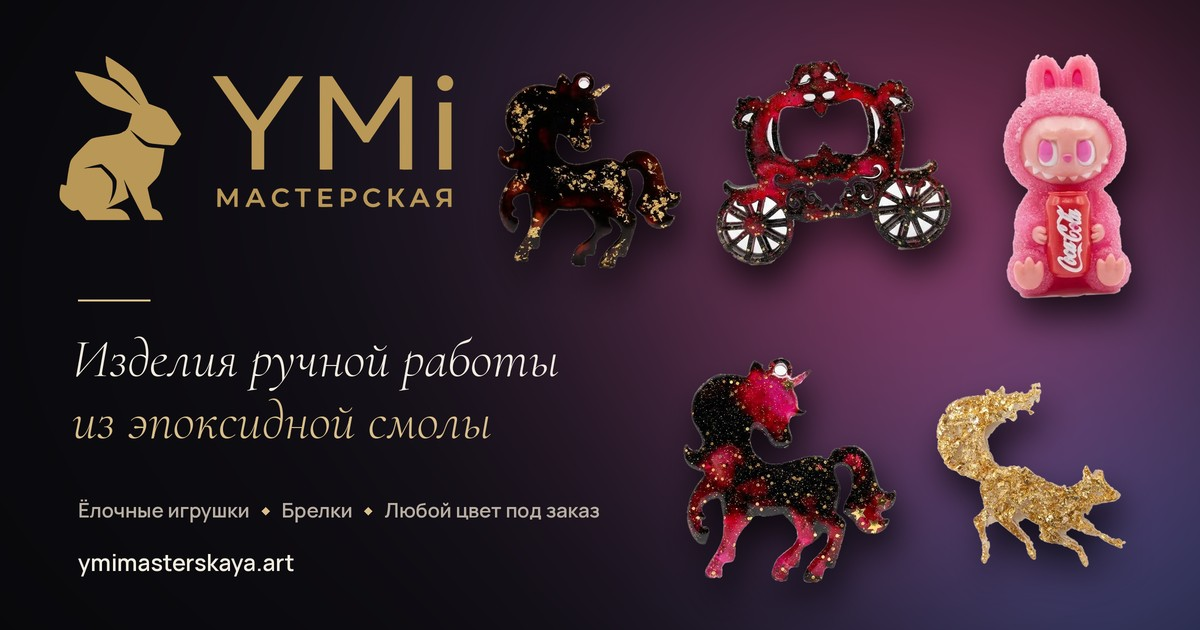
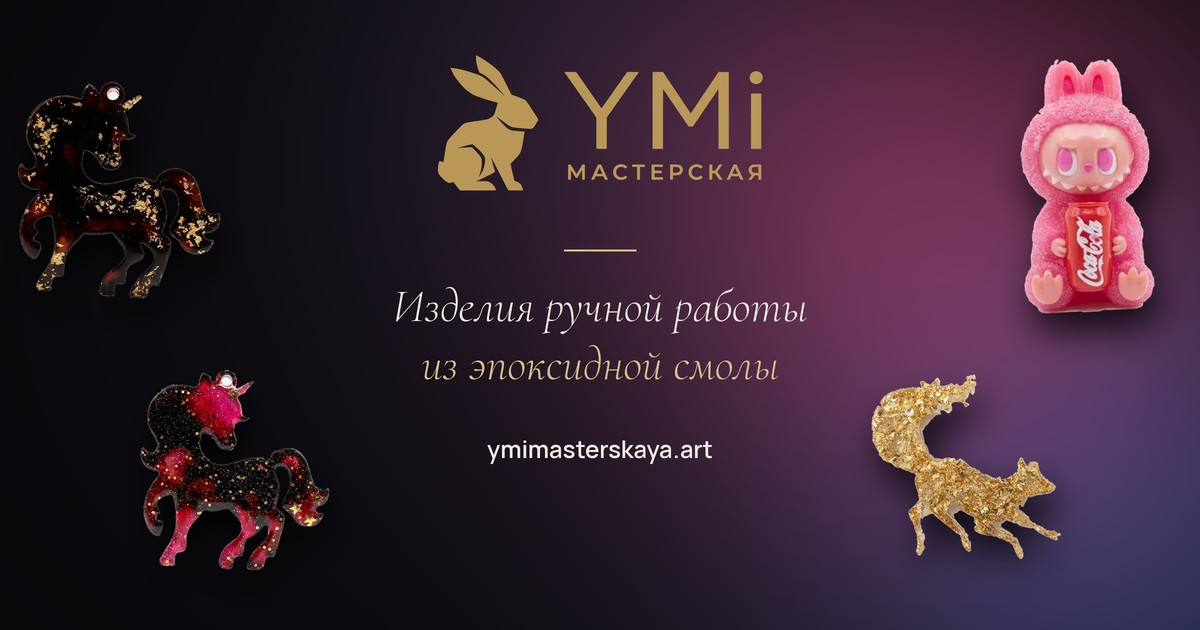
Превью для соцсетей: композиция по центру, безопасная для квадратной обрезки
Claude-Session: https://claude.ai/code/session_01SkmBLcDhrAsiXQETSAQUL7

Changed region(s): [[0.0, 0.0905, 0.8017, 0.5127], [0.0617, 0.5429, 0.9558, 0.9349], [0.8325, 0.0905, 0.9867, 0.5429]]

diff --git a/product/edinorog-fioletovyj-nektar/index.html b/product/edinorog-fioletovyj-nektar/index.html
@@ -14,6 +14,10 @@
 <meta property="og:site_name" content="Мастерская YMi"><meta property="og:title" content="Единорог «Фиолетовый нектар» — купить, ручная работа из эпоксидной смолы | Мастерская YMi">
 <meta property="og:description" content="Ёлочная игрушка-единорог из эпоксидной смолы, розово-фиолетовые разводы и голографический глиттер. Высота 8 см. Цена 490 ₽. Ручная работа, любой цвет под заказ."><meta property="og:url" content="https://ymimasterskaya.art/product/edinorog-fioletovyj-nektar/">
 <meta property="og:image" content="https://ymimasterskaya.art/img/p1-1.webp">
+<meta property="og:image:width" content="1200">
+<meta property="og:image:height" content="630">
+<meta property="og:image:alt" content="Мастерская YMi — изделия ручной работы из эпоксидной смолы">
+<meta name="twitter:image" content="https://ymimasterskaya.art/img/p1-1.webp">
 <meta name="twitter:card" content="summary_large_image">
 <link rel="preload" href="../../fonts/manrope-cyrillic-400-normal.woff2" as="font" type="font/woff2" crossorigin>
 <link rel="preload" href="../../fonts/cormorant-garamond-cyrillic-400-normal.woff2" as="font" type="font/woff2" crossorigin>

diff --git a/product/hrustalnaya-cherepashka-morskaya/index.html b/product/hrustalnaya-cherepashka-morskaya/index.html
@@ -14,6 +14,10 @@
 <meta property="og:site_name" content="Мастерская YMi"><meta property="og:title" content="Хрустальная черепашка «Морская волна» — купить, ручная работа из эпоксидной смолы | Мастерская YMi">
 <meta property="og:description" content="Брелок «Хрустальная черепашка» — оттенки морской волны и золотая поталь. Длина 4,5 см, ширина 4,3 см. Цена 550 ₽. Ручная работа, любой цвет под заказ."><meta property="og:url" content="https://ymimasterskaya.art/product/hrustalnaya-cherepashka-morskaya/">
 <meta property="og:image" content="https://ymimasterskaya.art/img/p6-1.webp">
+<meta property="og:image:width" content="1200">
+<meta property="og:image:height" content="630">
+<meta property="og:image:alt" content="Мастерская YMi — изделия ручной работы из эпоксидной смолы">
+<meta name="twitter:image" content="https://ymimasterskaya.art/img/p6-1.webp">
 <meta name="twitter:card" content="summary_large_image">
 <link rel="preload" href="../../fonts/manrope-cyrillic-400-normal.woff2" as="font" type="font/woff2" crossorigin>
 <link rel="preload" href="../../fonts/cormorant-garamond-cyrillic-400-normal.woff2" as="font" type="font/woff2" crossorigin>

diff --git a/product/hrustalnaya-cherepashka-biryuza/index.html b/product/hrustalnaya-cherepashka-biryuza/index.html
@@ -14,6 +14,10 @@
 <meta property="og:site_name" content="Мастерская YMi"><meta property="og:title" content="Хрустальная черепашка «Бирюза» — купить, ручная работа из эпоксидной смолы | Мастерская YMi">
 <meta property="og:description" content="Бирюзовая черепашка с золотой поталью — брелок или подвеска на сумку. Длина 4,5 см, ширина 4,3 см. Цена 550 ₽. Ручная работа, любой цвет под заказ."><meta property="og:url" content="https://ymimasterskaya.art/product/hrustalnaya-cherepashka-biryuza/">
 <meta property="og:image" content="https://ymimasterskaya.art/img/p15-1.webp">
+<meta property="og:image:width" content="1200">
+<meta property="og:image:height" content="630">
+<meta property="og:image:alt" content="Мастерская YMi — изделия ручной работы из эпоксидной смолы">
+<meta name="twitter:image" content="https://ymimasterskaya.art/img/p15-1.webp">
 <meta name="twitter:card" content="summary_large_image">
 <link rel="preload" href="../../fonts/manrope-cyrillic-400-normal.woff2" as="font" type="font/woff2" crossorigin>
 <link rel="preload" href="../../fonts/cormorant-garamond-cyrillic-400-normal.woff2" as="font" type="font/woff2" crossorigin>

diff --git a/product/edinorog-bordovye-zvyozdy/index.html b/product/edinorog-bordovye-zvyozdy/index.html
@@ -14,6 +14,10 @@
 <meta property="og:site_name" content="Мастерская YMi"><meta property="og:title" content="Единорог «Бордовые звёзды» — купить, ручная работа из эпоксидной смолы | Мастерская YMi">
 <meta property="og:description" content="Единорог красно-бордового цвета с блёстками, золотой пыльцой и звёздами. Высота 8 см, ширина 9 см. Цена 790 ₽. Ручная работа, любой цвет под заказ."><meta property="og:url" content="https://ymimasterskaya.art/product/edinorog-bordovye-zvyozdy/">
 <meta property="og:image" content="https://ymimasterskaya.art/img/p21-1.webp">
+<meta property="og:image:width" content="1200">
+<meta property="og:image:height" content="630">
+<meta property="og:image:alt" content="Мастерская YMi — изделия ручной работы из эпоксидной смолы">
+<meta name="twitter:image" content="https://ymimasterskaya.art/img/p21-1.webp">
 <meta name="twitter:card" content="summary_large_image">
 <link rel="preload" href="../../fonts/manrope-cyrillic-400-normal.woff2" as="font" type="font/woff2" crossorigin>
 <link rel="preload" href="../../fonts/cormorant-garamond-cyrillic-400-normal.woff2" as="font" type="font/woff2" crossorigin>

diff --git a/product/edinorog-rubinovaya-noch/index.html b/product/edinorog-rubinovaya-noch/index.html
@@ -14,6 +14,10 @@
 <meta property="og:site_name" content="Мастерская YMi"><meta property="og:title" content="Единорог «Рубиновая ночь» — купить, ручная работа из эпоксидной смолы | Мастерская YMi">
 <meta property="og:description" content="Единорог цвета ночного неба: глубокий чёрный, малиновые облака и золотые искры. Высота 8 см. Цена 790 ₽. Ручная работа, любой цвет под заказ."><meta property="og:url" content="https://ymimasterskaya.art/product/edinorog-rubinovaya-noch/">
 <meta property="og:image" content="https://ymimasterskaya.art/img/p2-1.webp">
+<meta property="og:image:width" content="1200">
+<meta property="og:image:height" content="630">
+<meta property="og:image:alt" content="Мастерская YMi — изделия ручной работы из эпоксидной смолы">
+<meta name="twitter:image" content="https://ymimasterskaya.art/img/p2-1.webp">
 <meta name="twitter:card" content="summary_large_image">
 <link rel="preload" href="../../fonts/manrope-cyrillic-400-normal.woff2" as="font" type="font/woff2" crossorigin>
 <link rel="preload" href="../../fonts/cormorant-garamond-cyrillic-400-normal.woff2" as="font" type="font/woff2" crossorigin>

diff --git a/index.html b/index.html
@@ -14,6 +14,10 @@
 <meta property="og:site_name" content="Мастерская YMi"><meta property="og:title" content="Мастерская YMi — изделия ручной работы из эпоксидной смолы | ёлочные игрушки и брелки">
 <meta property="og:description" content="Мастерская YMi: изделия ручной работы из эпоксидной смолы — ёлочные игрушки, брелки, украшения для интерьера. Любой цвет под заказ, наборы от 5 штук. Доставка по России."><meta property="og:url" content="https://ymimasterskaya.art/">
 <meta property="og:image" content="https://ymimasterskaya.art/img/og.jpg">
+<meta property="og:image:width" content="1200">
+<meta property="og:image:height" content="630">
+<meta property="og:image:alt" content="Мастерская YMi — изделия ручной работы из эпоксидной смолы">
+<meta name="twitter:image" content="https://ymimasterskaya.art/img/og.jpg">
 <meta name="twitter:card" content="summary_large_image">
 <link rel="preload" href="fonts/manrope-cyrillic-400-normal.woff2" as="font" type="font/woff2" crossorigin>
 <link rel="preload" href="fonts/cormorant-garamond-cyrillic-400-normal.woff2" as="font" type="font/woff2" crossorigin>

diff --git a/product/edinorog-vitrazh/index.html b/product/edinorog-vitrazh/index.html
@@ -14,6 +14,10 @@
 <meta property="og:site_name" content="Мастерская YMi"><meta property="og:title" content="Единорог «Винный витраж» — купить, ручная работа из эпоксидной смолы | Мастерская YMi">
 <meta property="og:description" content="Единорог цвета красного вина, как витражное стекло, с золотой поталью. Высота 8 см, ширина 9 см. Цена 790 ₽. Ручная работа, любой цвет под заказ."><meta property="og:url" content="https://ymimasterskaya.art/product/edinorog-vitrazh/">
 <meta property="og:image" content="https://ymimasterskaya.art/img/p22-1.webp">
+<meta property="og:image:width" content="1200">
+<meta property="og:image:height" content="630">
+<meta property="og:image:alt" content="Мастерская YMi — изделия ручной работы из эпоксидной смолы">
+<meta name="twitter:image" content="https://ymimasterskaya.art/img/p22-1.webp">
 <meta name="twitter:card" content="summary_large_image">
 <link rel="preload" href="../../fonts/manrope-cyrillic-400-normal.woff2" as="font" type="font/woff2" crossorigin>
 <link rel="preload" href="../../fonts/cormorant-garamond-cyrillic-400-normal.woff2" as="font" type="font/woff2" crossorigin>

diff --git a/product/kareta-bagryanaya/index.html b/product/kareta-bagryanaya/index.html
@@ -14,6 +14,10 @@
 <meta property="og:site_name" content="Мастерская YMi"><meta property="og:title" content="Карета «Багряная» — купить, ручная работа из эпоксидной смолы | Мастерская YMi">
 <meta property="og:description" content="Ажурная карета из эпоксидной смолы: красный цвет, чёрный контур и блёстки. Высота 9 см, ширина 10 см. Цена 890 ₽. Ручная работа, любой цвет под заказ."><meta property="og:url" content="https://ymimasterskaya.art/product/kareta-bagryanaya/">
 <meta property="og:image" content="https://ymimasterskaya.art/img/p3-1.webp">
+<meta property="og:image:width" content="1200">
+<meta property="og:image:height" content="630">
+<meta property="og:image:alt" content="Мастерская YMi — изделия ручной работы из эпоксидной смолы">
+<meta name="twitter:image" content="https://ymimasterskaya.art/img/p3-1.webp">
 <meta name="twitter:card" content="summary_large_image">
 <link rel="preload" href="../../fonts/manrope-cyrillic-400-normal.woff2" as="font" type="font/woff2" crossorigin>
 <link rel="preload" href="../../fonts/cormorant-garamond-cyrillic-400-normal.woff2" as="font" type="font/woff2" crossorigin>

diff --git a/blog/elochnye-igrushki-iz-epoksidnoj-smoly/index.html b/blog/elochnye-igrushki-iz-epoksidnoj-smoly/index.html
@@ -14,6 +14,10 @@
 <meta property="og:site_name" content="Мастерская YMi"><meta property="og:title" content="Ёлочные игрушки из эпоксидной смолы: чем они лучше обычных | Мастерская YMi">
 <meta property="og:description" content="Почему игрушки из эпоксидной смолы ручной работы становятся семейной реликвией: прочность, блеск, уникальный рисунок и как выбрать свою."><meta property="og:url" content="https://ymimasterskaya.art/blog/elochnye-igrushki-iz-epoksidnoj-smoly/">
 <meta property="og:image" content="https://ymimasterskaya.art/img/p1-1.webp">
+<meta property="og:image:width" content="1200">
+<meta property="og:image:height" content="630">
+<meta property="og:image:alt" content="Мастерская YMi — изделия ручной работы из эпоксидной смолы">
+<meta name="twitter:image" content="https://ymimasterskaya.art/img/p1-1.webp">
 <meta name="twitter:card" content="summary_large_image">
 <link rel="preload" href="../../fonts/manrope-cyrillic-400-normal.woff2" as="font" type="font/woff2" crossorigin>
 <link rel="preload" href="../../fonts/cormorant-garamond-cyrillic-400-normal.woff2" as="font" type="font/woff2" crossorigin>

diff --git a/product/kareta-snezhnaya/index.html b/product/kareta-snezhnaya/index.html
@@ -14,6 +14,10 @@
 <meta property="og:site_name" content="Мастерская YMi"><meta property="og:title" content="Карета «Снежная» — купить, ручная работа из эпоксидной смолы | Мастерская YMi">
 <meta property="og:description" content="Прозрачная карета с золотыми и серебристыми блёстками — зимняя сказка. Высота 9 см, ширина 10 см. Цена 890 ₽. Ручная работа, любой цвет под заказ."><meta property="og:url" content="https://ymimasterskaya.art/product/kareta-snezhnaya/">
 <meta property="og:image" content="https://ymimasterskaya.art/img/p20-1.webp">
+<meta property="og:image:width" content="1200">
+<meta property="og:image:height" content="630">
+<meta property="og:image:alt" content="Мастерская YMi — изделия ручной работы из эпоксидной смолы">
+<meta name="twitter:image" content="https://ymimasterskaya.art/img/p20-1.webp">
 <meta name="twitter:card" content="summary_large_image">
 <link rel="preload" href="../../fonts/manrope-cyrillic-400-normal.woff2" as="font" type="font/woff2" crossorigin>
 <link rel="preload" href="../../fonts/cormorant-garamond-cyrillic-400-normal.woff2" as="font" type="font/woff2" crossorigin>

diff --git a/catalog/index.html b/catalog/index.html
@@ -14,6 +14,10 @@
 <meta property="og:site_name" content="Мастерская YMi"><meta property="og:title" content="Каталог — ёлочные игрушки и брелки из эпоксидной смолы ручной работы | Мастерская YMi">
 <meta property="og:description" content="Каталог изделий из эпоксидной смолы: ёлочные игрушки (единороги, кареты, лисы) и брелки (Лабубу, мишки, черепашки). Любой цвет под заказ, наборы от 5 штук."><meta property="og:url" content="https://ymimasterskaya.art/catalog/">
 <meta property="og:image" content="https://ymimasterskaya.art/img/og.jpg">
+<meta property="og:image:width" content="1200">
+<meta property="og:image:height" content="630">
+<meta property="og:image:alt" content="Мастерская YMi — изделия ручной работы из эпоксидной смолы">
+<meta name="twitter:image" content="https://ymimasterskaya.art/img/og.jpg">
 <meta name="twitter:card" content="summary_large_image">
 <link rel="preload" href="../fonts/manrope-cyrillic-400-normal.woff2" as="font" type="font/woff2" crossorigin>
 <link rel="preload" href="../fonts/cormorant-garamond-cyrillic-400-normal.woff2" as="font" type="font/woff2" crossorigin>

diff --git a/product/labubu-mini-fioletovyj/index.html b/product/labubu-mini-fioletovyj/index.html
@@ -14,6 +14,10 @@
 <meta property="og:site_name" content="Мастерская YMi"><meta property="og:title" content="Лабубу мини фиолетовый — купить, ручная работа из эпоксидной смолы | Мастерская YMi">
 <meta property="og:description" content="Мини-Лабубу в костюме кролика: фиолетовая смола с глиттером. Высота 4,5 см, ширина 2,5 см. Цена 550 ₽. Ручная работа, любой цвет под заказ."><meta property="og:url" content="https://ymimasterskaya.art/product/labubu-mini-fioletovyj/">
 <meta property="og:image" content="https://ymimasterskaya.art/img/p18-1.webp">
+<meta property="og:image:width" content="1200">
+<meta property="og:image:height" content="630">
+<meta property="og:image:alt" content="Мастерская YMi — изделия ручной работы из эпоксидной смолы">
+<meta name="twitter:image" content="https://ymimasterskaya.art/img/p18-1.webp">
 <meta name="twitter:card" content="summary_large_image">
 <link rel="preload" href="../../fonts/manrope-cyrillic-400-normal.woff2" as="font" type="font/woff2" crossorigin>
 <link rel="preload" href="../../fonts/cormorant-garamond-cyrillic-400-normal.woff2" as="font" type="font/woff2" crossorigin>
